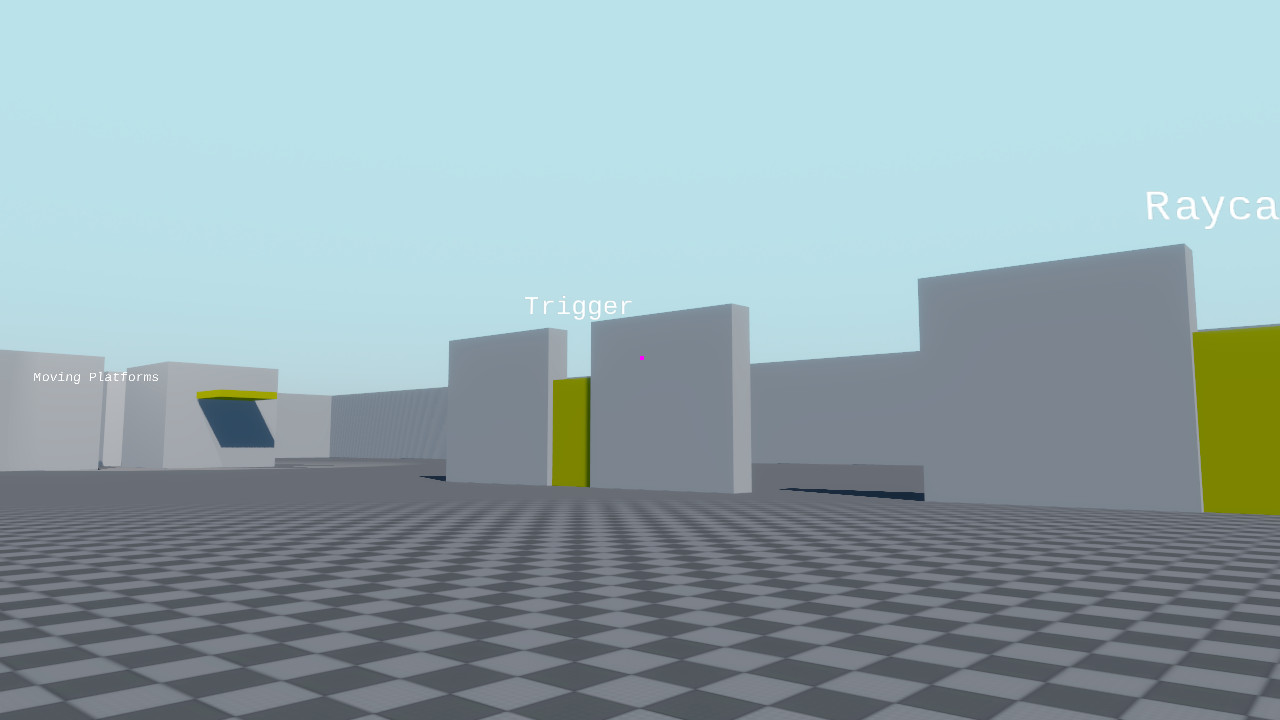
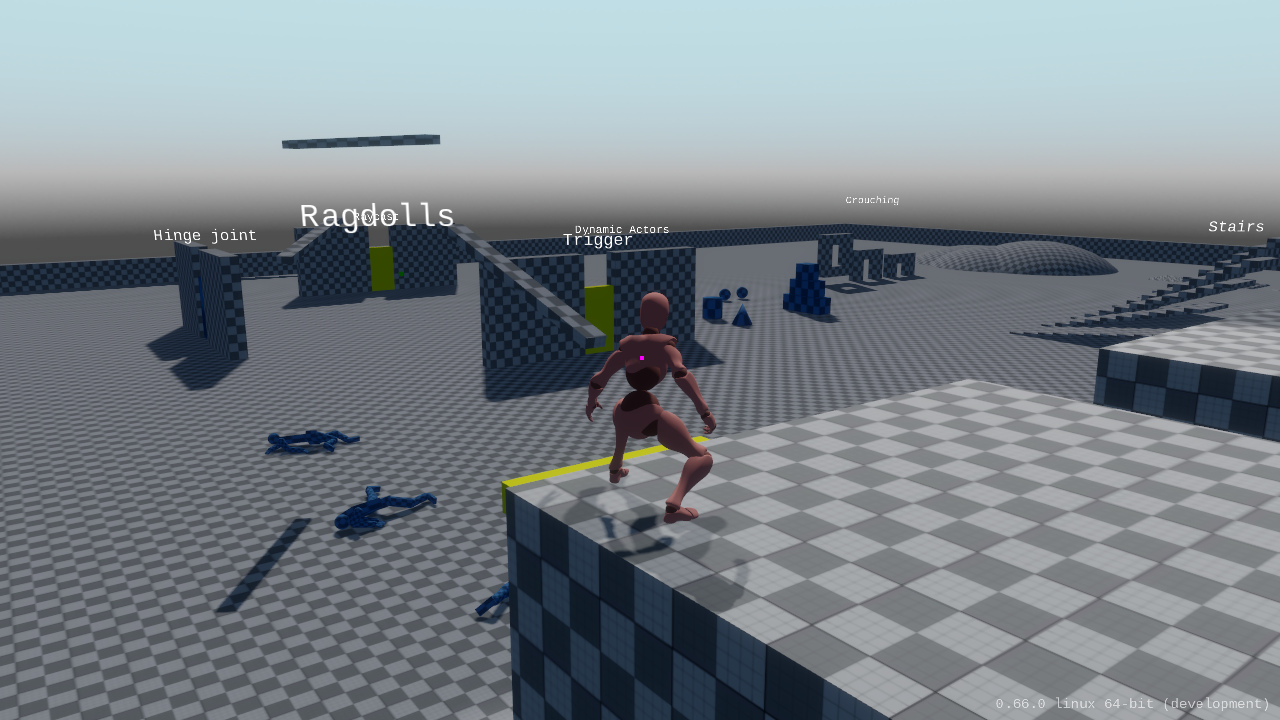
play: vehicle

diff --git a/src/pages/play/index.jsx b/src/pages/play/index.jsx
@@ -28,6 +28,15 @@ export default function Play() {
                 }}
               />
             </a>
+            <a href="https://play.crownengine.org/vehicle" data-nosnippet>
+              <HeroImage
+                {...{
+                  src: "/play/vehicle.jpg",
+                  title: "Vehicle",
+                  heightClass: "h-96",
+                }}
+              />
+            </a>
             <p className="mb-32" />
           </section>
         </Clamp>
